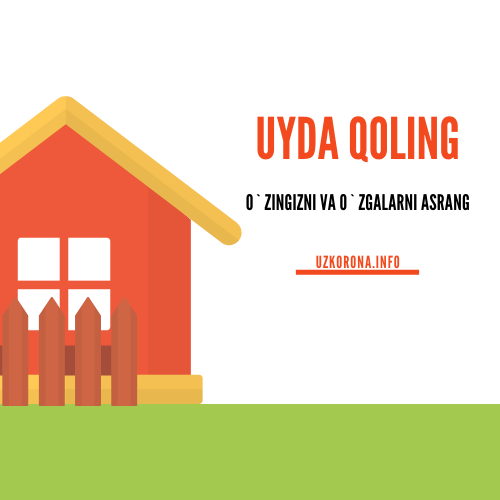
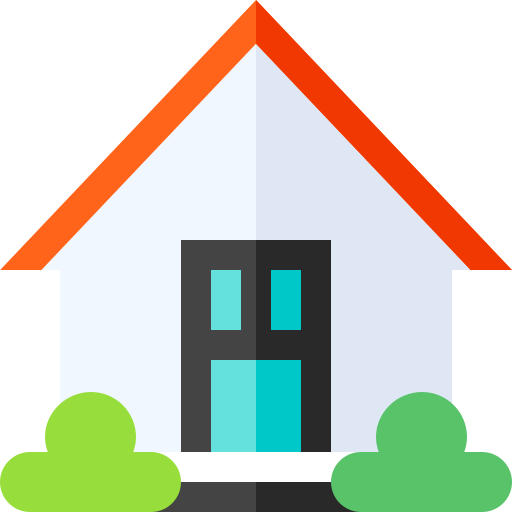
update

diff --git a/src/UI/Menyu.js b/src/UI/Menyu.js
@@ -2,7 +2,7 @@ import React, { Component } from "react";
 import styled from "styled-components";
 import Aux from "./Auxiliary";
 import { Link } from "react-router-dom";
-
+import StayHome from "../assets/stayhome.png";
 import { Home } from "@styled-icons/boxicons-solid/Home";
 import { News } from "@styled-icons/boxicons-regular/News";
 import { ExclamationCircle } from "@styled-icons/heroicons-outline/ExclamationCircle";
@@ -16,9 +16,8 @@ class MenyuComponent extends Component {
         <Backdrop onClick={this.props.backdropClicked}></Backdrop>
         <Menyu show={this.props.menyuShow}>
           <div className="logo">
-            COVID-19 STATISTIKA
-            <br />
-            uzkorona.info
+            <img src={StayHome} />
+            Uyda qoling!
           </div>
           <div className="ul">
             <Link to="/">
@@ -86,6 +85,10 @@ const Menyu = styled.div`
     padding: 30px;
     box-sizing: border-box;
     border-bottom-left-radius: 30px;
+
+    img {
+      width: 20%;
+    }
   }
 
   .ul {

diff --git a/src/UI/Footer.js b/src/UI/Footer.js
@@ -2,7 +2,24 @@ import React from "react";
 import styled from "styled-components";
 
 const footer = () => {
-  return <Container>uzkorona.info © 2020</Container>;
+  return (
+    <Container>
+      uzkorona.info © 2020{" "}
+      <div>
+        Icons made by{" "}
+        <a
+          href="https://www.flaticon.com/authors/ultimatearm"
+          title="ultimatearm"
+        >
+          ultimatearm
+        </a>{" "}
+        from{" "}
+        <a href="https://www.flaticon.com/" title="Flaticon">
+          www.flaticon.com
+        </a>
+      </div>
+    </Container>
+  );
 };
 
 export default footer;
